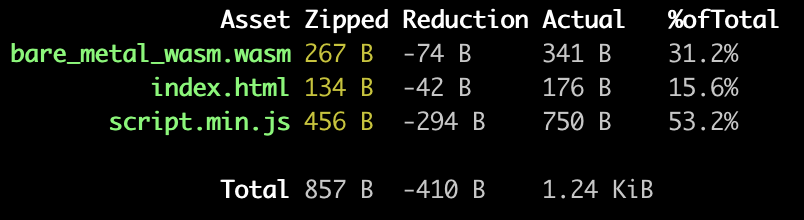
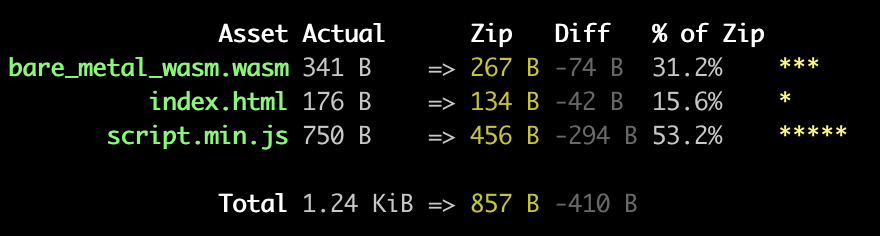
💄 Updating stat style

Changed region(s): [[0.0, 0.0273, 0.9639, 0.3273], [0.1244, 0.3545, 0.9639, 0.6273], [0.2488, 0.7909, 0.8085, 0.9]]

diff --git a/index.js b/index.js
@@ -30,29 +30,36 @@ module.exports = (filename) => {
     totalCompressedSize += compressedSize;
   });
   return table([
+    ['', '', '', '', '', '', ''],
     [
       chalk.bold.whiteBright('Asset'),
-      chalk.bold.whiteBright('Zipped'),
-      chalk.bold.whiteBright('Reduction'),
       chalk.bold.whiteBright('Actual'),
-      chalk.bold.whiteBright('%ofTotal'),
+      '',
+      chalk.bold.whiteBright('Zip'),
+      chalk.bold.whiteBright('Diff'),
+      chalk.bold.whiteBright('% of Zip'),
+      ''
     ],
     ...zip.getEntries().map((zipEntry) => {
       const { entryName, header: { size, compressedSize } } = zipEntry;
       return [
         chalk.bold.green(entryName),
-        chalk.yellow(fs(compressedSize)),
-        chalk.white(fs(compressedSize - size)),
         chalk.white(fs(size)),
+        '=>',
+        chalk.yellow(fs(compressedSize)),
+        `${chalk.gray(fs(compressedSize - size))}`,
         `${((100 * compressedSize) / totalCompressedSize).toFixed(1)}%`,
+        chalk.yellowBright('*'.repeat(10 * compressedSize / totalCompressedSize))
       ];
     }),
-    ['', '', '', '', ''],
+    ['', '', '', '', '', '', ''],
     [
       chalk.bold.whiteBright('Total'),
-      fs(totalCompressedSize),
-      fs(totalCompressedSize - totalSize),
       fs(totalSize),
+      '=>',
+      chalk.yellow(fs(totalCompressedSize)),
+      `${chalk.grey(fs(totalCompressedSize - totalSize))}`,
+      '',
       '',
     ],
   ], tableOptions);
